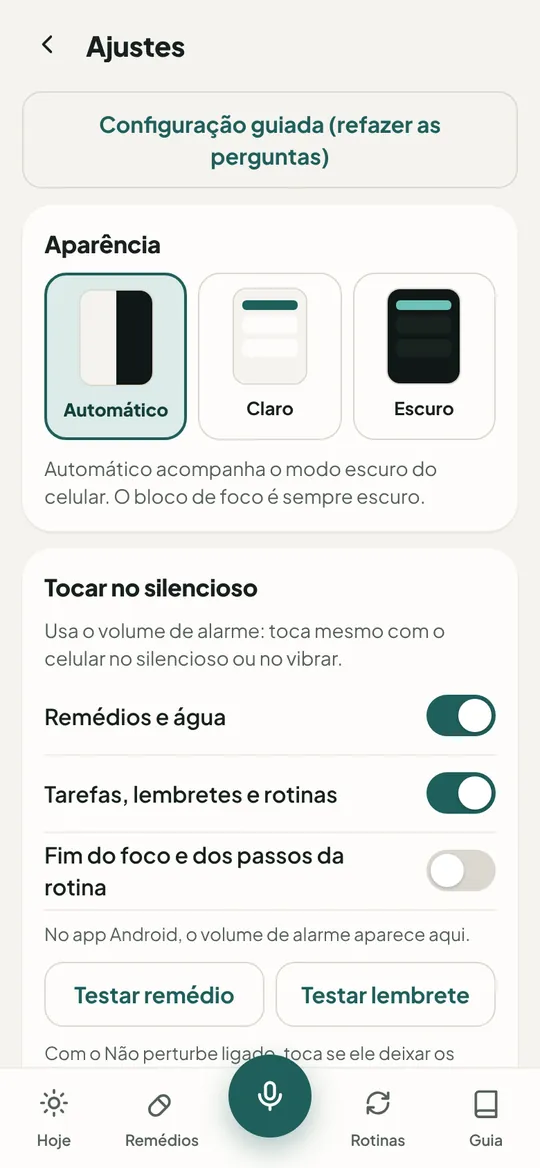
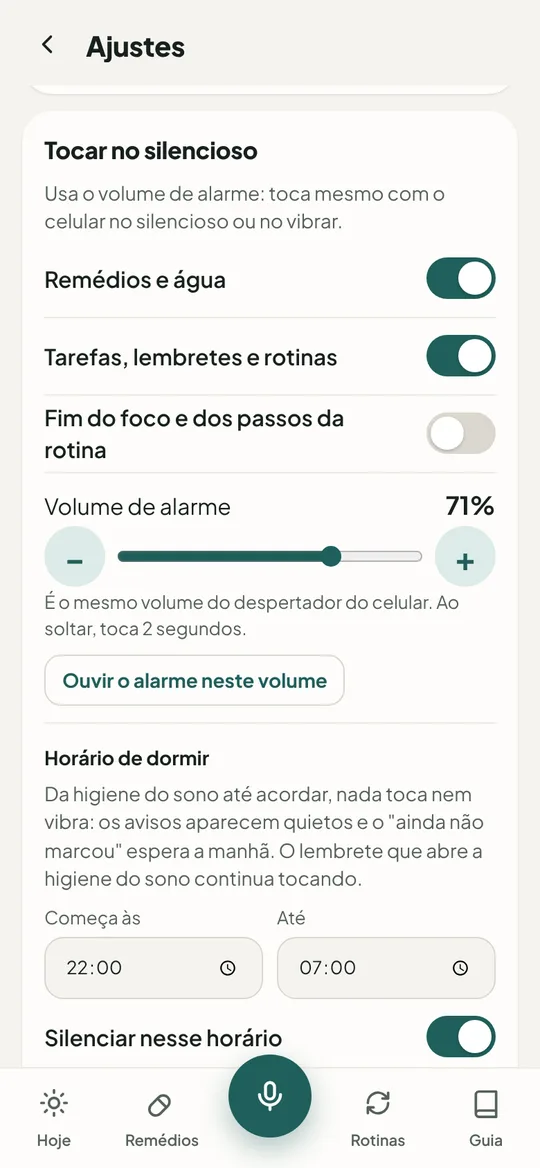
Tutorial: Parar o som, marcou antes não toca e foto nova do volume de alarme
Claude-Session: https://claude.ai/code/session_01Rs3GPLpWNhTN5yiAapCfrm

Changed region(s): [[0.0593, 0.0925, 0.9185, 0.9247], [0.0593, 0.8014, 0.0889, 0.863], [0.0296, 0.1233, 0.0593, 0.1541]]

diff --git a/como-usar/index.html b/como-usar/index.html
@@ -141,7 +141,7 @@ const L = [
     'Abra <b>Remédios</b> na barra de baixo e cadastre nome e horários.',
     'Na hora, o aviso chega com <b>Tomei</b> e <b>Lembrar em 15 min</b>.',
     'Se não marcar, ele avisa de novo 30 minutos depois.',
-    'O próximo fica fixo na barra de notificações até você marcar.'],
+    'Marcou antes da hora? Aquele não toca naquele dia. O próximo fica fixo na barra até você marcar.'],
     'Com a agenda conectada, ele avisa para levar o remédio quando você vai estar fora no horário.'],
   ['agua', 'Remédios e avisos', 'Meta de água', 'agua', 'Quanto beber e quando, em mL.', [
     'Em <b>Remédios</b>, no card <b>Água de hoje</b>, diga seu peso e se passa o dia sentado ou ativo. A meta sai sozinha: 30 ou 35 mL por kg.',
@@ -152,9 +152,9 @@ const L = [
   ['silencioso', 'Remédios e avisos', 'Tocar mesmo no silencioso', 'silencioso', 'Para quem vive com o celular no vibrar.', [
     'Menu ☰ › Ajustes › <b>Tocar no silencioso</b>.',
     'Ligue o que deve tocar: remédios e água; tarefas, lembretes e rotinas; fim do foco.',
-    'Deixe o celular no silencioso ou no vibrar e toque em <b>Testar remédio</b>.',
-    'No mesmo card, ajuste o <b>Volume de alarme</b> no controle ou no − e +. Ao soltar, toca 2 segundos para você ouvir.'],
-    'Ele toca pelo volume de alarme, como o despertador. Seu modo silencioso continua igual.'],
+    'Ajuste o <b>Volume de alarme</b> no controle ou no − e +. Ao soltar, toca 2 segundos para você ouvir. Depois, <b>Testar remédio</b>.',
+    'Vários avisos na mesma hora tocam um som só. Para calar: <b>Parar o som</b> na notificação, abrir o app ou <b>Tomei</b>.'],
+    'Ele toca pelo volume de alarme, que é o mesmo do despertador. Seu modo silencioso continua igual.'],
   ['dormir', 'Remédios e avisos', 'Horário de dormir', 'dormir', 'Nada toca depois que a higiene do sono começa.', [
     'Menu ☰ › Ajustes › <b>Tocar no silencioso</b> › <b>Horário de dormir</b>.',
     'Ele já vem do lembrete do Reset noturno até a hora de acordar. Ajuste os dois se quiser.',
@@ -245,7 +245,7 @@ const ALT = {
   remedios: 'Tela Remédios e água com 2 de 8 marcados e a lista por manhã, tarde e noite',
   agua: 'Remédios, card Água de hoje com 0,8 L de 4,6 L, aviso de treino às 18:00, plano automático de 10 copos de 400 mL a cada 1h35 e a lista de copos com os mL',
   dormir: 'Ajustes, Horário de dormir das 21:00 às 06:30, chave ligada e aviso de que a Melatonina das 22:30 vai aparecer sem tocar',
-  silencioso: 'Ajustes, card Tocar no silencioso com remédios e lembretes ligados e os botões de teste',
+  silencioso: 'Ajustes, card Tocar no silencioso com remédios e lembretes ligados, o controle do volume de alarme em 71% com os botões menos e mais, e o botão Ouvir o alarme neste volume',
   foco: 'Bloco de foco com 24:58 restantes e o passo atual da tarefa',
   'foco-disco': 'Bloco de foco com o disco vermelho de tempo visual e a mensagem Focando junto',
   'foco-fim': 'Bloco concluído com as 4 bolinhas cheias e o botão de pausa longa de 15 minutos',
